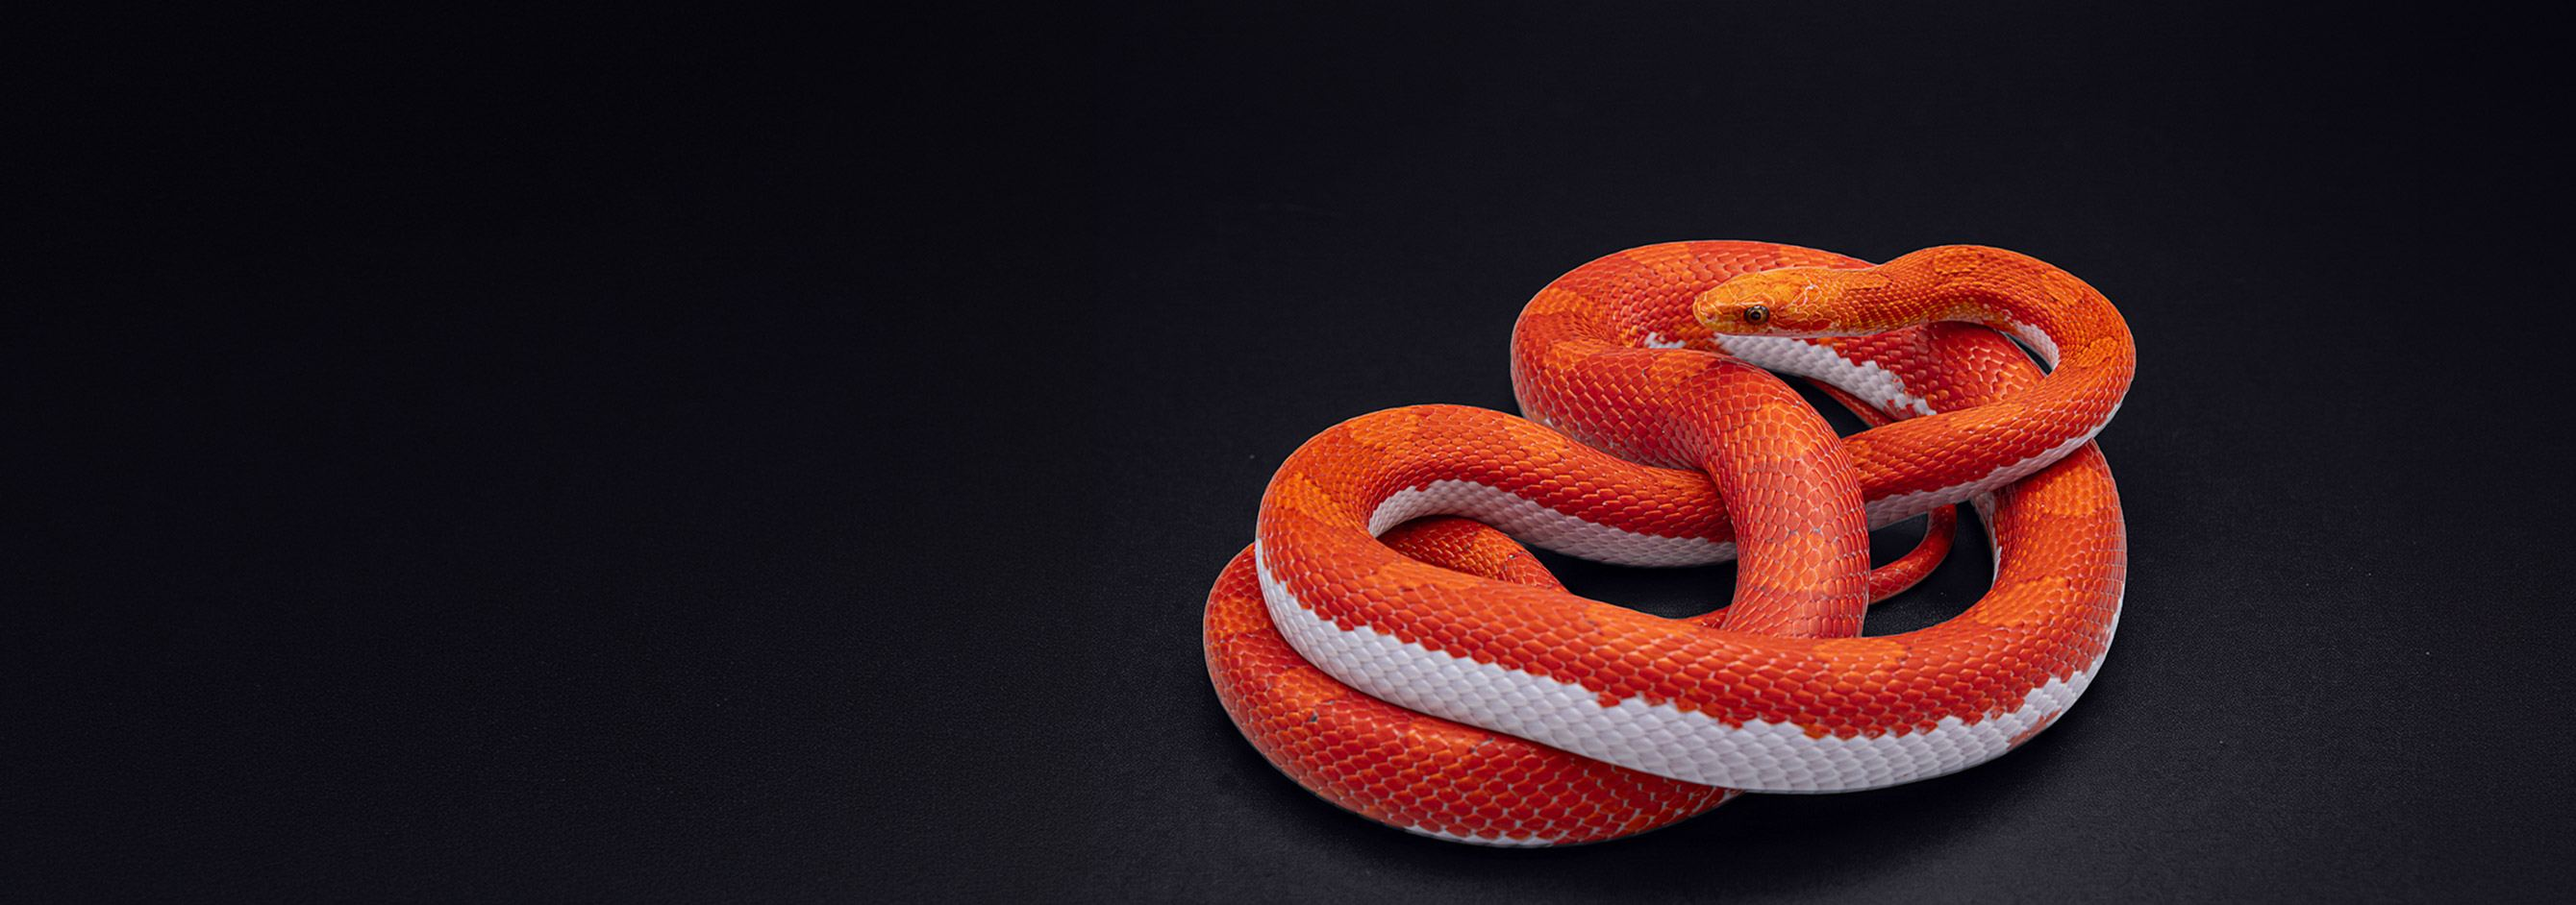
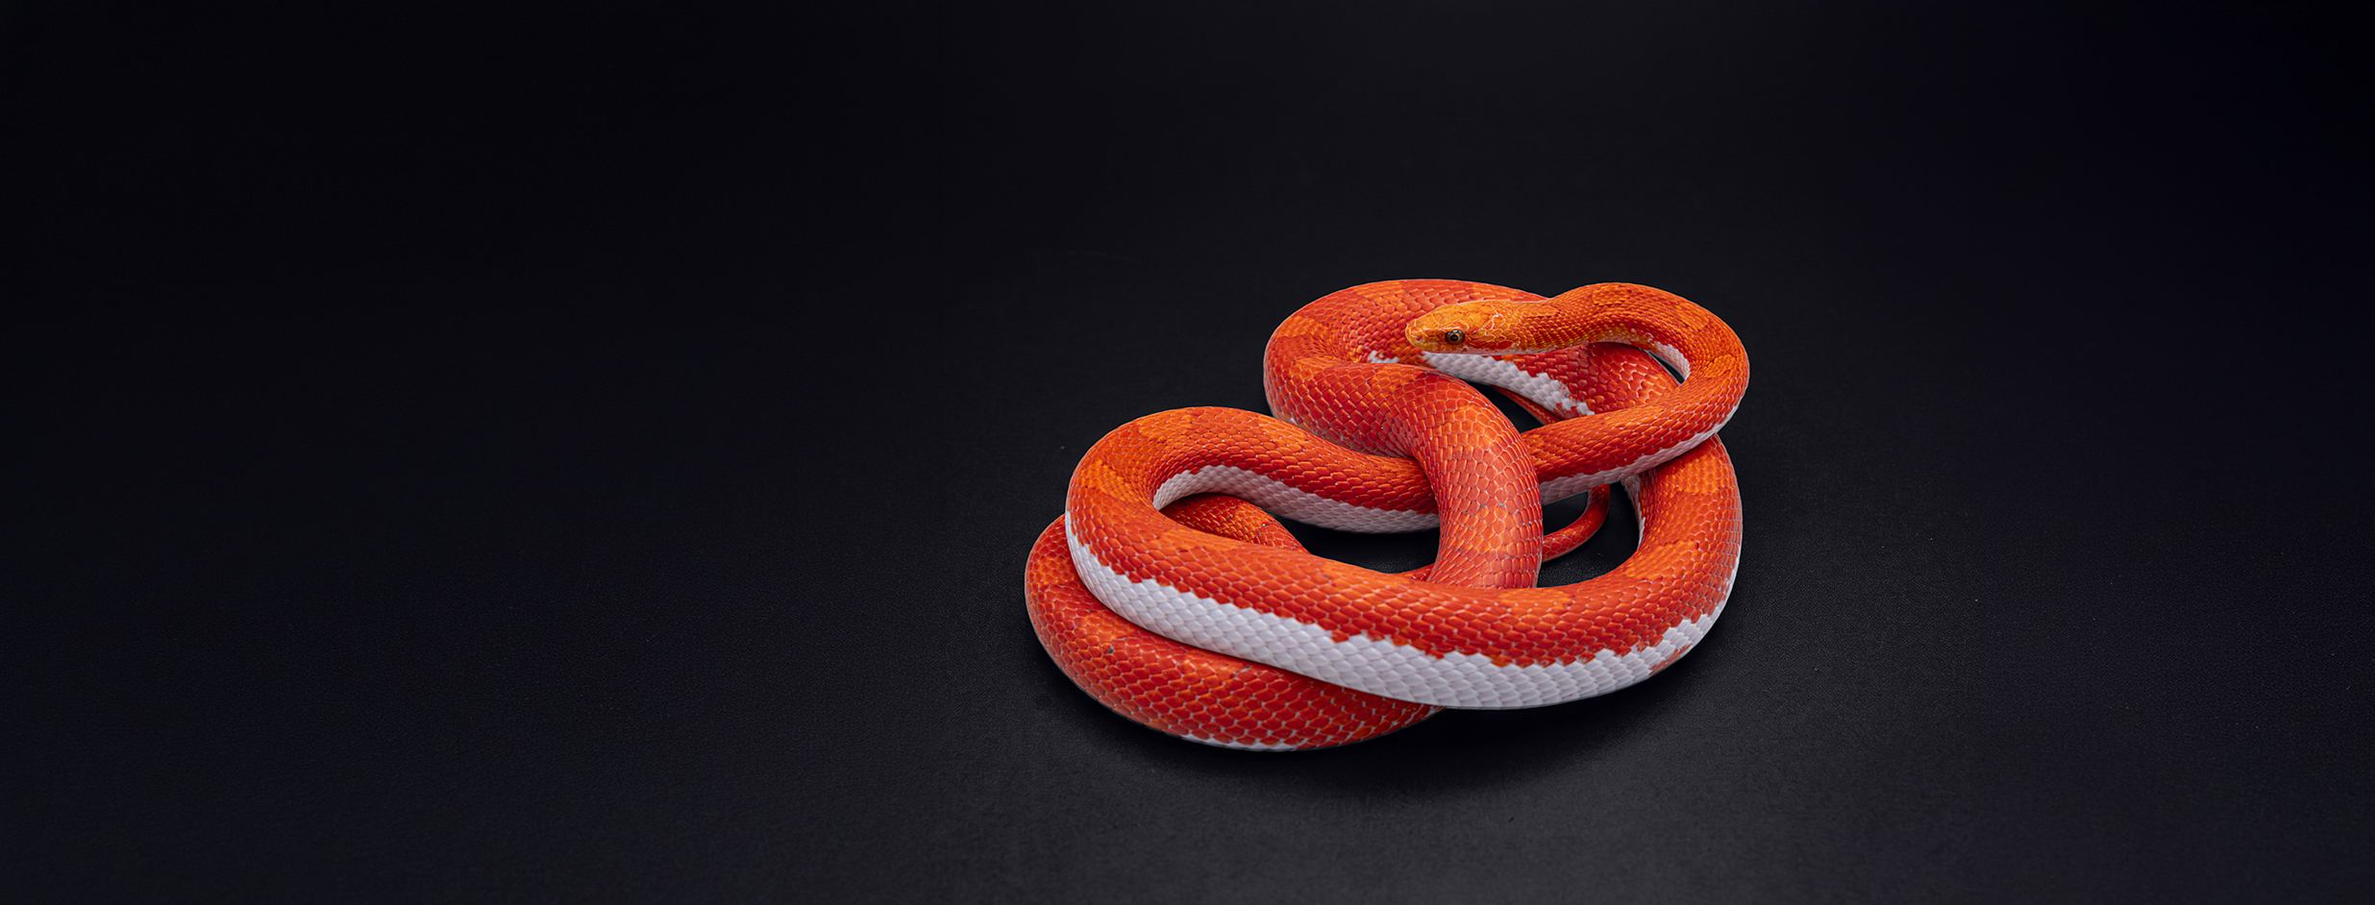
Hero: Foto 700, neues breites Foto

Changed region(s): [[0.4051, 0.2463, 0.8414, 1.0]]

diff --git a/index.html b/index.html
@@ -26,7 +26,7 @@
 <meta name="theme-color" content="#17161d">
 <link rel="icon" type="image/png" href="assets/img/5af7d0ea1a.png"><link rel="apple-touch-icon" href="assets/img/5af7d0ea1a.png">
 <link rel="stylesheet" href="assets/fonts.css">
-<link rel="stylesheet" href="assets/cornnector.css?v=e5600962b2">
+<link rel="stylesheet" href="assets/cornnector.css?v=8fc0cceb5f">
 <script type="application/ld+json">{"@context": "https://schema.org", "@type": "MobileApplication", "name": "Cornnector", "description": "Cornnector dokumentiert Fütterungen, Häutungen, Verpaarungen und Gelege – inklusive genetischer Ergebnisse. Alle Informationen digital. Direkt dort, wo du sie brauchst.", "operatingSystem": "iOS, Android", "applicationCategory": "LifestyleApplication", "inLanguage": ["de", "en"], "offers": {"@type": "Offer", "price": "0", "priceCurrency": "EUR"}, "publisher": {"@type": "Organization", "@id": "https://www.bleeding-edge-corns.com/#organization", "name": "Bleeding Edge Corns", "url": "https://www.bleeding-edge-corns.com/"}, "author": {"@type": "Organization", "@id": "https://www.bleeding-edge-corns.com/#organization", "name": "Bleeding Edge Corns", "url": "https://www.bleeding-edge-corns.com/"}}</script>
 <script type="application/ld+json">{"@context": "https://schema.org", "@type": "FAQPage", "mainEntity": [{"@type": "Question", "name": "Brauche ich ein Konto?", "acceptedAnswer": {"@type": "Answer", "text": "Nein. App öffnen und loslegen. Deine Daten liegen auf deinem Handy, nicht auf fremden Servern."}}, {"@type": "Question", "name": "Funktioniert Cornnector ohne Internet?", "acceptedAnswer": {"@type": "Answer", "text": "Ja. Alles liegt auf deinem Handy. Du kannst auch im Keller ohne Empfang füttern und eintragen."}}, {"@type": "Question", "name": "Kann ich auf ein neues Handy umziehen?", "acceptedAnswer": {"@type": "Answer", "text": "Ja. Sicherung exportieren, auf dem neuen Handy importieren, fertig. Alle Tiere, Verläufe und Gelege sind wieder da."}}, {"@type": "Question", "name": "Kann ich meinen Bestand aus Excel übernehmen?", "acceptedAnswer": {"@type": "Answer", "text": "Ja. In den Einstellungen gibt es eine Vorlage. Trag deine Tiere ein und importiere die Datei. Vorher prüft eine Vorschau jede Zeile."}}, {"@type": "Question", "name": "Kann ich mehrere Tiere auf einmal füttern?", "acceptedAnswer": {"@type": "Answer", "text": "Ja, mit der Fütterungsrunde: Du gehst von Terrarium zu Terrarium, scannst das Etikett und trägst jede Fütterung mit einem Wisch ein. Im Hub wischst du fällige Tiere einfach nach links."}}, {"@type": "Question", "name": "Wie lösche ich einen falschen Eintrag?", "acceptedAnswer": {"@type": "Answer", "text": "Im Tierprofil unter „Verlauf“ den Eintrag nach links wischen. Direkt danach kannst du das Löschen mit „Rückgängig“ zurücknehmen."}}, {"@type": "Question", "name": "Warum blinkt der Ring?", "acceptedAnswer": {"@type": "Answer", "text": "Das Tier ist über seinem Futterintervall. Das Intervall stellst du im Profil unter „Futterintervall“ ein."}}, {"@type": "Question", "name": "Was kommt als Nächstes?", "acceptedAnswer": {"@type": "Answer", "text": "Einfache Übergabe, Tierpass per QR, Börsenkalender und mehr. Alles unter Ausblick. Dir fehlt etwas? Schreib uns."}}]}</script>
 </head>
@@ -62,7 +62,7 @@
     <div class="btns"><a class="btn light wl-m" href="#vormerken">Auf die Warteliste</a><a class="btn line" href="#start">Die App kennenlernen</a></div>
   </div>
   <div class="hero-shot"><div class="iphone" role="img" aria-label="Die Kornnatter-App Cornnector auf dem iPhone: der Hub mit den heute fälligen Fütterungen">
-    <picture class="hero-photo"><source media="(max-width:700px)" srcset="assets/img/hero-390.jpg 1x, assets/img/hero-390@2x.jpg 2x"><source media="(max-width:768px)" srcset="assets/img/hero-768.jpg 1x, assets/img/hero-768@2x.jpg 2x"><source media="(max-width:900px)" srcset="assets/img/hero-820.jpg 1x, assets/img/hero-820@2x.jpg 2x"><source media="(max-width:1024px)" srcset="assets/img/hero-1024.jpg 1x, assets/img/hero-1024@2x.jpg 2x"><source media="(max-width:1280px)" srcset="assets/img/hero-1280.jpg 1x, assets/img/hero-1280@2x.jpg 2x"><source media="(min-width:1441px)" srcset="assets/img/hero-breit.jpg 1x, assets/img/hero-breit@2x.jpg 2x"><img src="assets/img/hero-1440.jpg" srcset="assets/img/hero-1440.jpg 1x, assets/img/hero-1440@2x.jpg 2x" alt="" decoding="async" fetchpriority="low"></picture>
+    <picture class="hero-photo"><source media="(max-width:430px)" srcset="assets/img/hero-390.jpg 1x, assets/img/hero-390@2x.jpg 2x"><source media="(max-width:700px)" srcset="assets/img/hero-700.jpg 1x, assets/img/hero-700@2x.jpg 2x"><source media="(max-width:768px)" srcset="assets/img/hero-768.jpg 1x, assets/img/hero-768@2x.jpg 2x"><source media="(max-width:900px)" srcset="assets/img/hero-820.jpg 1x, assets/img/hero-820@2x.jpg 2x"><source media="(max-width:1024px)" srcset="assets/img/hero-1024.jpg 1x, assets/img/hero-1024@2x.jpg 2x"><source media="(max-width:1280px)" srcset="assets/img/hero-1280.jpg 1x, assets/img/hero-1280@2x.jpg 2x"><source media="(min-width:1441px)" srcset="assets/img/hero-breit.jpg 1x, assets/img/hero-breit@2x.jpg 2x"><img src="assets/img/hero-1440.jpg" srcset="assets/img/hero-1440.jpg 1x, assets/img/hero-1440@2x.jpg 2x" alt="" decoding="async" fetchpriority="low"></picture>
     <div class="scr-box"><div class="scr-art"><img class="scr-img" src="assets/img/01-hub-de.png" alt="" width="640" height="1391" decoding="async" fetchpriority="high"><span class="hub-bar" aria-hidden="true"><i></i></span><span class="hub-late" aria-hidden="true"></span></div></div>
   </div></div>
 </div></header>

diff --git a/en/index.html b/en/index.html
@@ -26,7 +26,7 @@
 <meta name="theme-color" content="#17161d">
 <link rel="icon" type="image/png" href="../assets/img/5af7d0ea1a.png"><link rel="apple-touch-icon" href="../assets/img/5af7d0ea1a.png">
 <link rel="stylesheet" href="../assets/fonts.css">
-<link rel="stylesheet" href="../assets/cornnector.css?v=e5600962b2">
+<link rel="stylesheet" href="../assets/cornnector.css?v=8fc0cceb5f">
 <script type="application/ld+json">{"@context": "https://schema.org", "@type": "MobileApplication", "name": "Cornnector", "description": "Cornnector documents feedings, sheds, pairings and clutches – including genetic results. All your information, digital. Right where you need it.", "operatingSystem": "iOS, Android", "applicationCategory": "LifestyleApplication", "inLanguage": ["de", "en"], "offers": {"@type": "Offer", "price": "0", "priceCurrency": "EUR"}, "publisher": {"@type": "Organization", "@id": "https://www.bleeding-edge-corns.com/#organization", "name": "Bleeding Edge Corns", "url": "https://www.bleeding-edge-corns.com/"}, "author": {"@type": "Organization", "@id": "https://www.bleeding-edge-corns.com/#organization", "name": "Bleeding Edge Corns", "url": "https://www.bleeding-edge-corns.com/"}}</script>
 <script type="application/ld+json">{"@context": "https://schema.org", "@type": "FAQPage", "mainEntity": [{"@type": "Question", "name": "Do I need an account?", "acceptedAnswer": {"@type": "Answer", "text": "No. Open the app and get going. Your data lives on your phone, not on someone else’s servers."}}, {"@type": "Question", "name": "Does Cornnector work offline?", "acceptedAnswer": {"@type": "Answer", "text": "Yes. Everything is on your phone. You can feed and log even in a basement without reception."}}, {"@type": "Question", "name": "Can I move to a new phone?", "acceptedAnswer": {"@type": "Answer", "text": "Yes. Export a backup, import it on the new phone, done. All animals, histories and clutches are back."}}, {"@type": "Question", "name": "Can I bring my collection over from Excel?", "acceptedAnswer": {"@type": "Answer", "text": "Yes. There’s a template in the settings. Enter your animals and import the file. A preview checks every row first."}}, {"@type": "Question", "name": "Can I feed several animals at once?", "acceptedAnswer": {"@type": "Answer", "text": "Yes, with the feeding round: go from enclosure to enclosure, scan the label and log each feeding with a swipe. In the hub, just swipe due animals to the left."}}, {"@type": "Question", "name": "How do I delete a wrong entry?", "acceptedAnswer": {"@type": "Answer", "text": "In the animal profile under “History”, swipe the entry left. Right after that you can take it back with “Undo”."}}, {"@type": "Question", "name": "Why is the ring blinking?", "acceptedAnswer": {"@type": "Answer", "text": "The animal is past its feeding interval. You set the interval in the profile under “Feeding interval”."}}, {"@type": "Question", "name": "What’s next?", "acceptedAnswer": {"@type": "Answer", "text": "Easy handover, animal passport via QR, reptile show calendar and more. All under Outlook. Missing something? Write to us."}}]}</script>
 </head>
@@ -62,7 +62,7 @@
     <div class="btns"><a class="btn light wl-m" href="#vormerken">Join the waitlist</a><a class="btn line" href="#start">Explore the app</a></div>
   </div>
   <div class="hero-shot"><div class="iphone" role="img" aria-label="The corn snake app Cornnector on the iPhone: the hub with today’s due feedings">
-    <picture class="hero-photo"><source media="(max-width:700px)" srcset="../assets/img/hero-390.jpg 1x, ../assets/img/hero-390@2x.jpg 2x"><source media="(max-width:768px)" srcset="../assets/img/hero-768.jpg 1x, ../assets/img/hero-768@2x.jpg 2x"><source media="(max-width:900px)" srcset="../assets/img/hero-820.jpg 1x, ../assets/img/hero-820@2x.jpg 2x"><source media="(max-width:1024px)" srcset="../assets/img/hero-1024.jpg 1x, ../assets/img/hero-1024@2x.jpg 2x"><source media="(max-width:1280px)" srcset="../assets/img/hero-1280.jpg 1x, ../assets/img/hero-1280@2x.jpg 2x"><source media="(min-width:1441px)" srcset="../assets/img/hero-breit.jpg 1x, ../assets/img/hero-breit@2x.jpg 2x"><img src="../assets/img/hero-1440.jpg" srcset="../assets/img/hero-1440.jpg 1x, ../assets/img/hero-1440@2x.jpg 2x" alt="" decoding="async" fetchpriority="low"></picture>
+    <picture class="hero-photo"><source media="(max-width:430px)" srcset="../assets/img/hero-390.jpg 1x, ../assets/img/hero-390@2x.jpg 2x"><source media="(max-width:700px)" srcset="../assets/img/hero-700.jpg 1x, ../assets/img/hero-700@2x.jpg 2x"><source media="(max-width:768px)" srcset="../assets/img/hero-768.jpg 1x, ../assets/img/hero-768@2x.jpg 2x"><source media="(max-width:900px)" srcset="../assets/img/hero-820.jpg 1x, ../assets/img/hero-820@2x.jpg 2x"><source media="(max-width:1024px)" srcset="../assets/img/hero-1024.jpg 1x, ../assets/img/hero-1024@2x.jpg 2x"><source media="(max-width:1280px)" srcset="../assets/img/hero-1280.jpg 1x, ../assets/img/hero-1280@2x.jpg 2x"><source media="(min-width:1441px)" srcset="../assets/img/hero-breit.jpg 1x, ../assets/img/hero-breit@2x.jpg 2x"><img src="../assets/img/hero-1440.jpg" srcset="../assets/img/hero-1440.jpg 1x, ../assets/img/hero-1440@2x.jpg 2x" alt="" decoding="async" fetchpriority="low"></picture>
     <div class="scr-box"><div class="scr-art"><img class="scr-img" src="../assets/img/01-hub-en.png" alt="" width="640" height="1391" decoding="async" fetchpriority="high"><span class="hub-bar" aria-hidden="true"><i></i></span><span class="hub-late" aria-hidden="true"></span></div></div>
   </div></div>
 </div></header>

diff --git a/assets/cornnector.css b/assets/cornnector.css
@@ -353,15 +353,14 @@ footer .fl{color:#fff;text-decoration:none;font-weight:600}footer .fl:hover{text
 @keyframes hub-late{50%{opacity:.6}}
 @media (prefers-reduced-motion:no-preference){.hub-bar,.hub-late{display:block}}
 /* Foto hinter dem iPhone, je Viewport aus Figma (Seite Anleitung). Ab 901 px am iPhone verankert (Werte = Lage im Frame, iPhone-Breite = 100 %),
-   zwischen zwei Frames gilt das Foto des nächstgrößeren. Bis 900 px füllt es die Bühne von unten. */
+   zwischen zwei Frames gilt das Foto des nächstgrößeren. Bis 900 px füllt es die Bühne von unten (bis 430 px Foto 390, bis 700 px Foto 700). */
 .hero{isolation:isolate}
 .hero-photo img{position:absolute;z-index:-1;top:0;margin-top:calc(-109/340*100%);left:calc(-876/340*100%);width:calc(1440/340*100%);max-width:none;height:auto;pointer-events:none}
-@media (min-width:1441px){.hero-photo img{left:calc(-1403/340*100%);width:calc(2679/340*100%);-webkit-mask-image:linear-gradient(90deg,transparent,#000 12%);mask-image:linear-gradient(90deg,transparent,#000 12%)}}
+@media (min-width:1441px){.hero-photo img{left:calc(-1109/340*100%);width:calc(2471/340*100%);-webkit-mask-image:linear-gradient(90deg,transparent,#000 12%);mask-image:linear-gradient(90deg,transparent,#000 12%)}}
 @media (min-width:1025px) and (max-width:1280px){.hero-photo img{left:calc(-796/340*100%);margin-top:calc(-107/340*100%);width:calc(1280/340*100%)}}
 @media (min-width:901px) and (max-width:1024px){.hero-photo img{left:calc(-608/340*100%);margin-top:calc(-86/340*100%);width:calc(1024/340*100%)}}
 @media (max-width:900px){.hero{position:relative}.hero .iphone{position:static}.hero-photo img{inset:0;margin:0;width:100%;height:100%;object-fit:cover;object-position:right bottom}}
 @media (max-width:700px){.hero-photo img{object-position:center bottom}}
-@media (min-width:431px) and (max-width:700px){.hero{background:linear-gradient(#0a0911,#100f17 30%,#1e1d25 55%,#2b2830 75%)}.hero-photo img{inset:auto;bottom:0;left:50%;width:430px;height:auto;margin-left:-215px;-webkit-mask-image:linear-gradient(90deg,transparent,#000 18%,#000 82%,transparent);mask-image:linear-gradient(90deg,transparent,#000 18%,#000 82%,transparent)}}
 .shot{margin:0;display:grid;gap:12px;justify-items:center}
 .shot img{display:block;width:min(270px,70vw);height:auto;aspect-ratio:640/1391;border-radius:38px;border:9px solid #000;box-shadow:0 0 0 2px #3a3846,0 30px 60px rgba(23,22,29,.22);background:#f5f5f7}
 .shot.big img{width:min(330px,78vw)}
